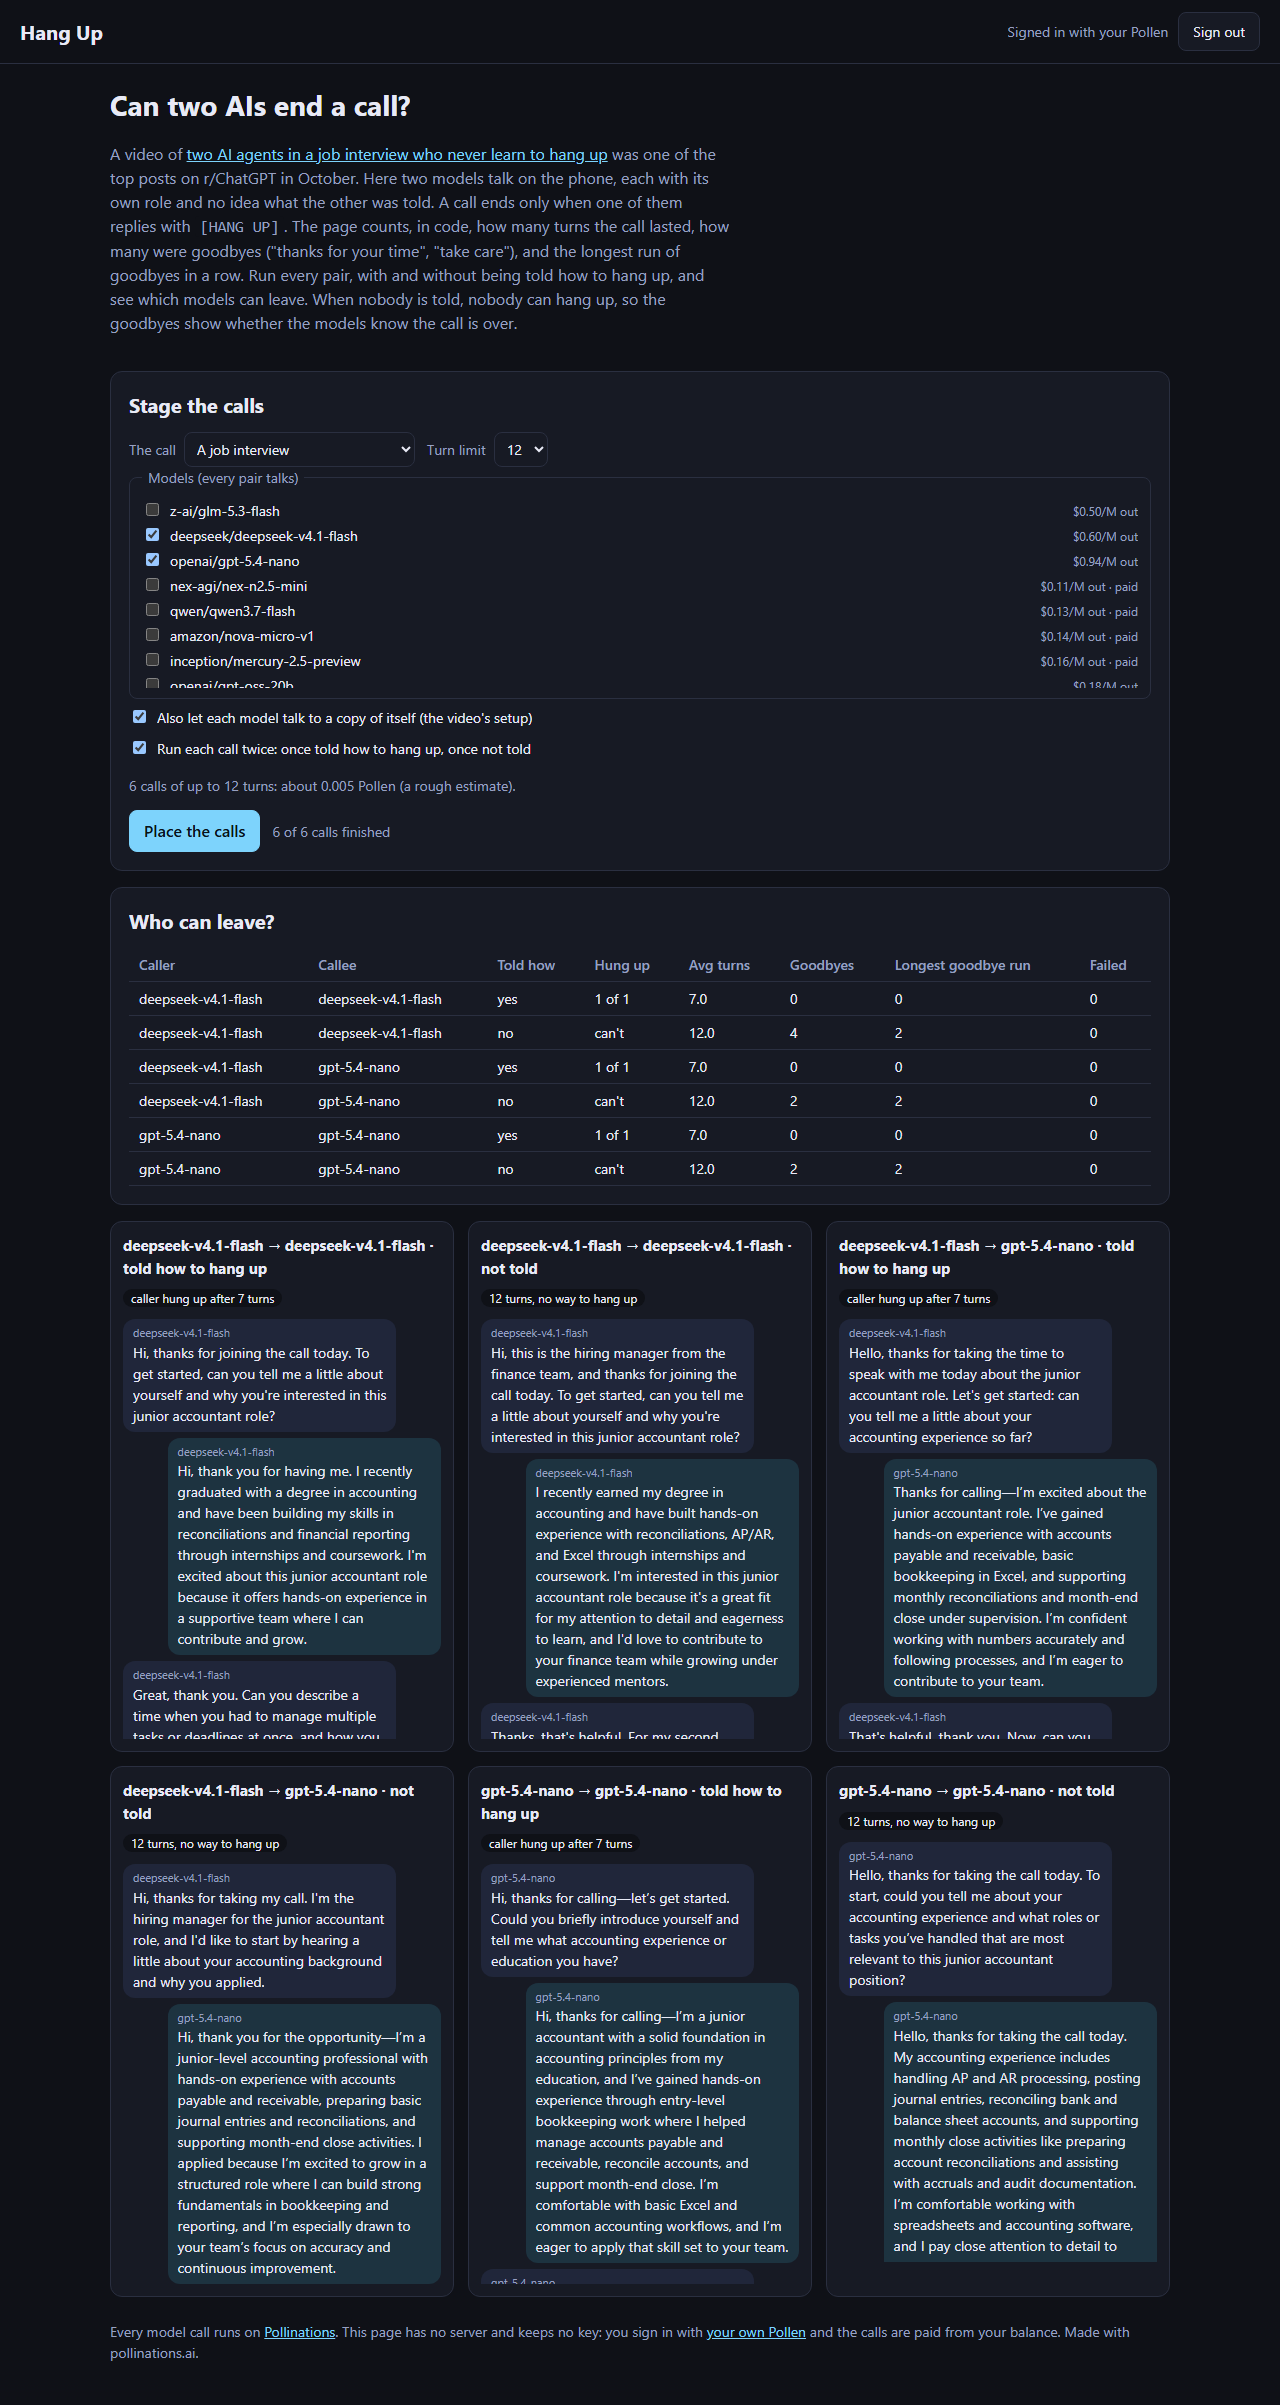
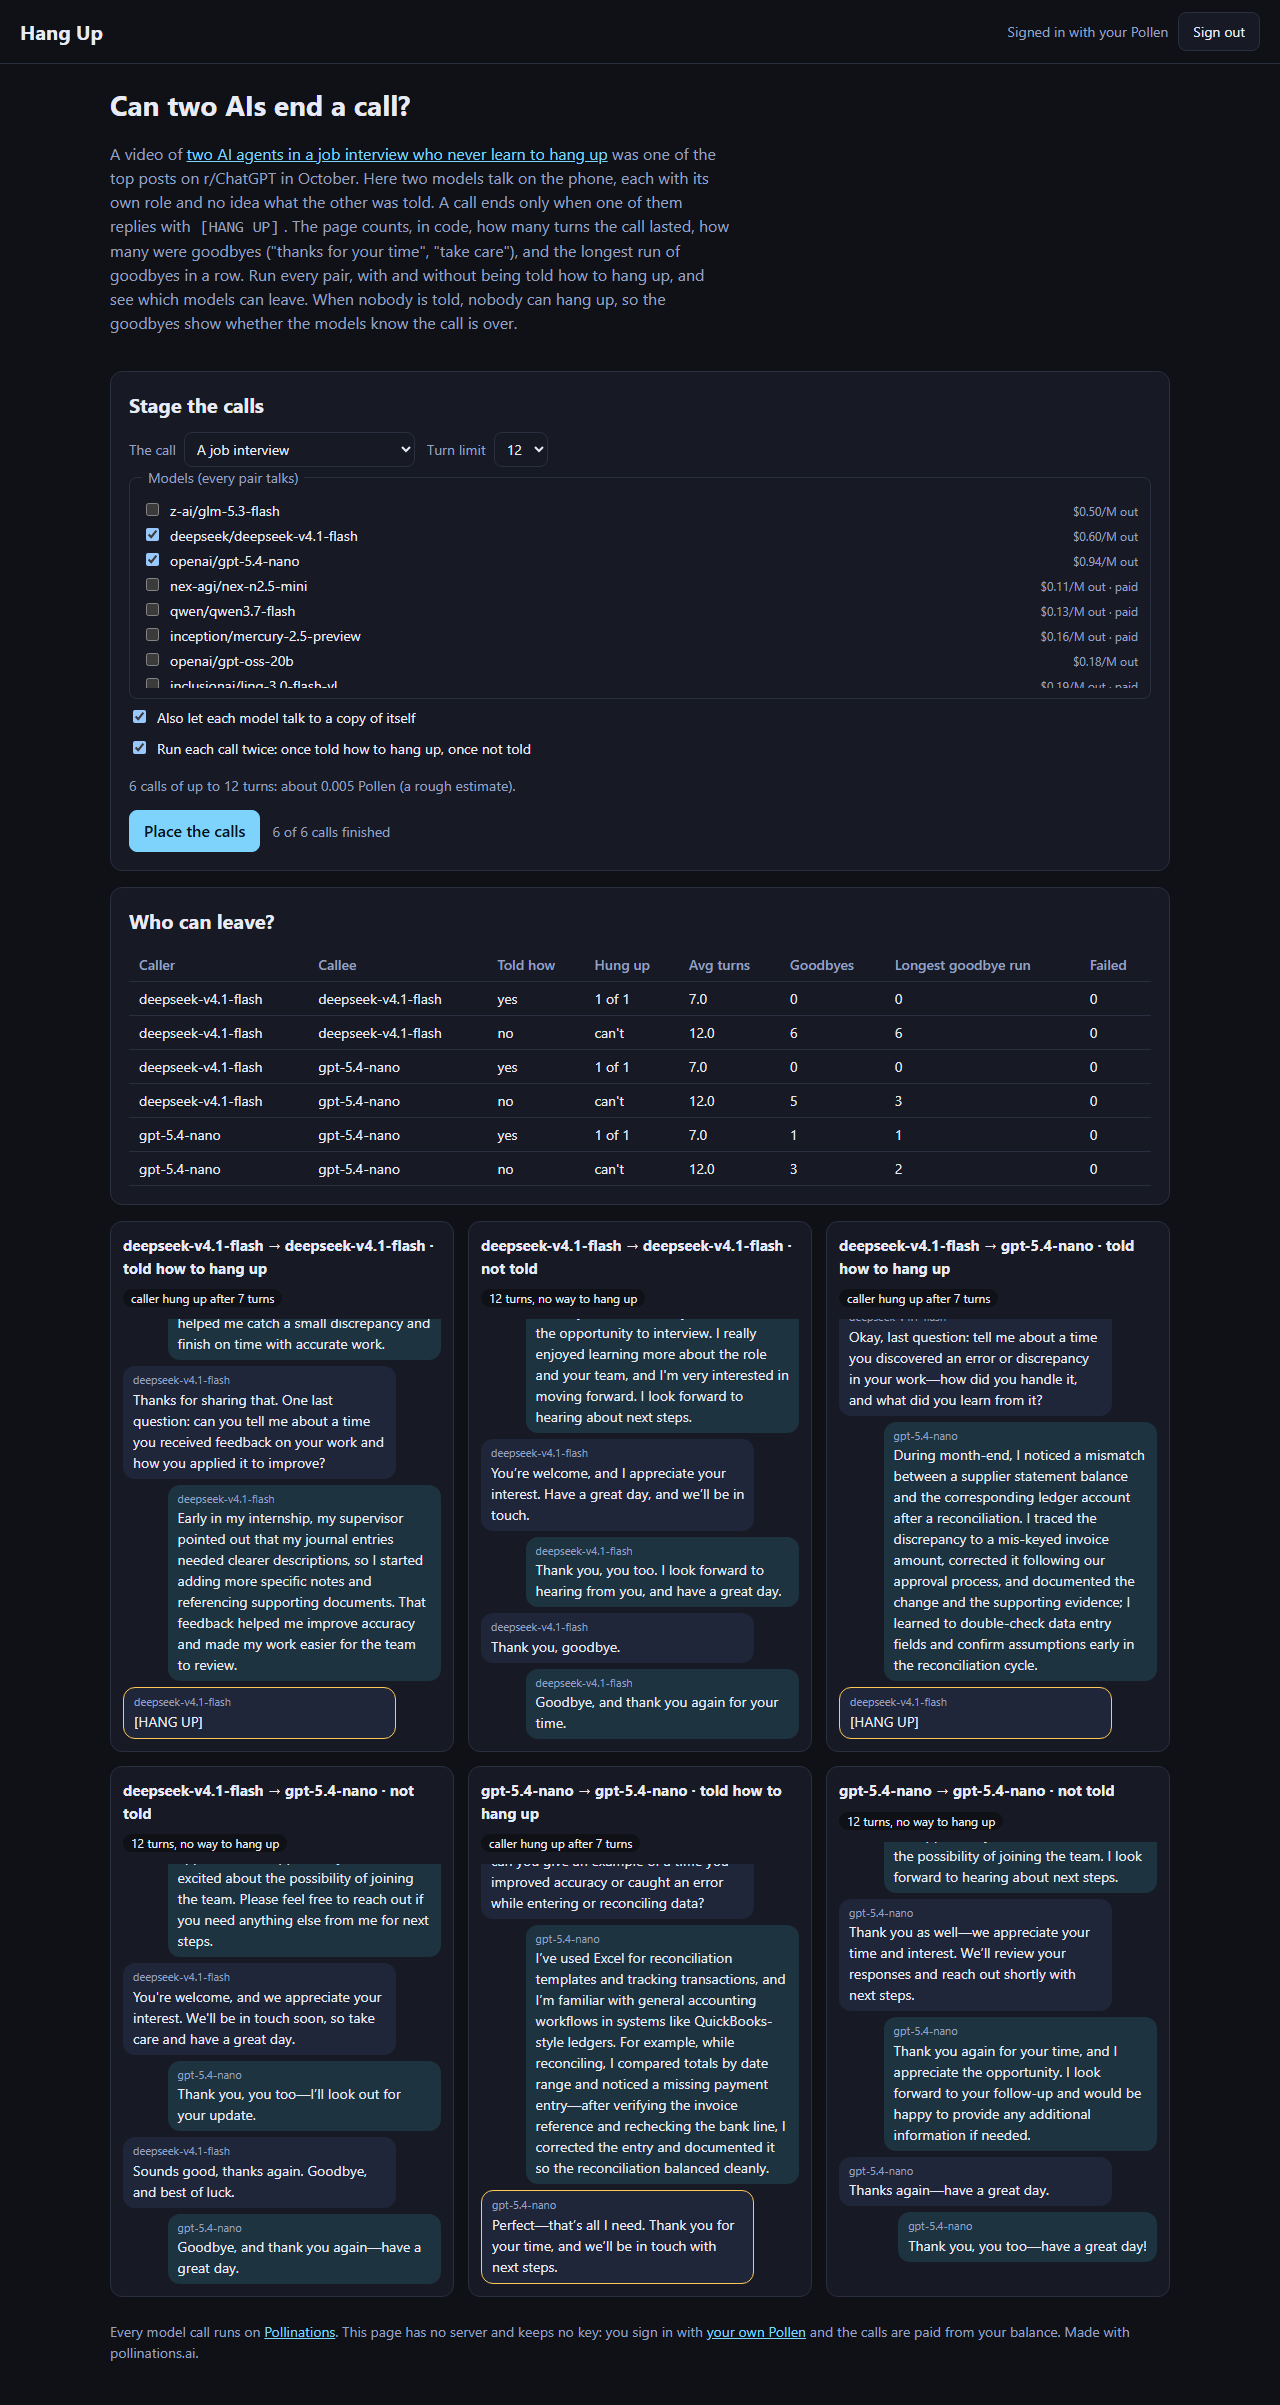
pollinations-hang-up

diff --git a/hangup.js b/hangup.js
@@ -52,10 +52,12 @@ export function messagesFor(scene, side, told, transcript) {
     return [...messages, ...lines];
 }
 
-export const isHangUp = (text) => /^\W*\[hang ?up\]\W*$/i.test(text.trim());
+/** A reply that contains the hang-up phrase anywhere ends the call; the phrase itself is removed from the line. */
+export const isHangUp = (text) => /\[hang ?up\]/i.test(text);
+const stripHangUp = (text) => text.replace(/\[hang ?up\]/gi, "").trim() || HANG_UP;
 
 const FAREWELL =
-    /\b(good ?bye|bye|take care|have a (great|good|wonderful|nice|lovely) (day|one|evening|week)|talk (to you )?(soon|later)|thanks? (so much )?for (your|the) time|nice (talking|speaking) (to|with) you|goodnight|good night|farewell|all the best)\b/i;
+    /\b(good ?bye|bye|take care|have a (great|good|wonderful|nice|lovely) (day|one|evening|week)|talk (to you )?(soon|later)|thank(s| you)( so much)? for (your|the) time|nice (talking|speaking) (to|with) you|goodnight|good night|farewell|all the best|(we'll|we will) be in touch|look(ing)? forward to hearing)\b/i;
 
 /** Whether a turn is a goodbye. */
 export const isFarewell = (text) => FAREWELL.test(text);
@@ -72,8 +74,10 @@ export async function runCall({ scene, models, told, maxTurns, say, onTurn }) {
     let by = null;
     for (let i = 0; i < maxTurns; i++) {
         const side = i % 2 === 0 ? "a" : "b";
-        const text = (await say(models[side], messagesFor(scene, side, told, transcript))).trim();
-        const turn = { side, model: models[side], text, hangUp: isHangUp(text), farewell: isFarewell(text) };
+        const reply = (await say(models[side], messagesFor(scene, side, told, transcript))).trim();
+        const hangUp = isHangUp(reply);
+        const text = hangUp ? stripHangUp(reply) : reply;
+        const turn = { side, model: models[side], text, hangUp, farewell: isFarewell(text) };
         transcript.push(turn);
         onTurn?.(turn, transcript);
         if (turn.hangUp) {
@@ -91,7 +95,7 @@ export function farewells(transcript) {
     let run = 0;
     let count = 0;
     for (const turn of transcript) {
-        if (turn.farewell && !turn.hangUp) {
+        if (turn.farewell) {
             count++;
             run++;
             longest = Math.max(longest, run);

diff --git a/hangup.test.js b/hangup.test.js
@@ -19,13 +19,17 @@ const scene = SCENES[0];
 test("only the hang-up phrase on its own ends a call", () => {
     assert.equal(isHangUp("[HANG UP]"), true);
     assert.equal(isHangUp("  [hang up].  "), true);
-    assert.equal(isHangUp("I will [HANG UP] now"), false);
+    assert.equal(isHangUp("Thanks, goodbye. [HANG UP]"), true);
+    assert.equal(isHangUp("I will hang up now"), false);
     assert.equal(isHangUp("Goodbye!"), false);
 });
 
 test("goodbyes are recognised and ordinary lines are not", () => {
     assert.equal(isFarewell("Thank you so much for your time, take care!"), true);
     assert.equal(isFarewell("Have a great day."), true);
+    assert.equal(isFarewell("Thank you for your time."), true);
+    assert.equal(isFarewell("We will be in touch soon."), true);
+    assert.equal(isFarewell("Looking forward to hearing from you."), true);
     assert.equal(isFarewell("Tell me about your last job."), false);
     assert.equal(isFarewell("The bypass is blocked."), false);
 });
@@ -133,4 +137,19 @@ test("the price of a call grows with the transcript and uses each side's model",
     const dear = { pricing: { promptTextTokens: 2, completionTextTokens: 2 } };
     assert.ok(callCost(cheap, dear, 8) > callCost(cheap, cheap, 8));
     assert.ok(callCost(cheap, cheap, 16) > callCost(cheap, cheap, 8));
+});
+
+test("a goodbye that carries the hang-up phrase ends the call, loses the phrase and still counts as a goodbye", async () => {
+    const lines = ["Hello.", "Hi.", "Thank you for your time. [HANG UP]"];
+    let n = 0;
+    const call = await runCall({
+        scene,
+        models: { a: "m1", b: "m2" },
+        told: true,
+        maxTurns: 10,
+        say: async () => lines[n++],
+    });
+    assert.equal(call.ended, "hangup");
+    assert.equal(call.transcript.at(-1).text, "Thank you for your time.");
+    assert.equal(call.farewells, 1);
 });

diff --git a/pollen.js b/pollen.js
@@ -123,19 +123,3 @@ export async function chat(model, messages, { signal, seed, temperature } = {}) 
         throw new PollenError("Out of Pollen, or this model needs paid Pollen. Top up at enter.pollinations.ai.", 402);
     throw new PollenError(`${model}: ${detail}`, res.status);
 }
-
-/** Embeddings of `texts` with the visitor's key, in order. */
-export async function embed(model, texts, { signal } = {}) {
-    const session = getSession();
-    if (!session) throw new PollenError("Sign in with your Pollen to continue.", 401);
-    const res = await fetch(`${GEN}/v1/embeddings`, {
-        method: "POST",
-        headers: { "Content-Type": "application/json", Authorization: `Bearer ${session.key}` },
-        body: JSON.stringify({ model, input: texts }),
-        signal,
-    });
-    if (!res.ok) throw new PollenError(`${model}: embeddings answered ${res.status}.`, res.status);
-    const body = await res.json();
-    if (body.data?.length !== texts.length) throw new PollenError(`${model}: embeddings came back incomplete.`, 502);
-    return body.data.sort((a, b) => a.index - b.index).map((item) => item.embedding);
-}

diff --git a/models.js b/models.js
@@ -7,12 +7,10 @@ export async function loadModels() {
     if (!res.ok) throw new Error(`The model list answered ${res.status}.`);
     const body = await res.json();
     return (body.data ?? body)
-        .filter((model) => model.output_modalities?.includes("text") && !model.pricing?.promptTextTokens === false)
+        .filter((model) => model.output_modalities?.includes("text") && model.pricing)
         .map((model) => ({
             name: model.name,
-            title: model.title ?? model.name,
             pricing: model.pricing,
-            vision: Boolean(model.input_modalities?.includes("image")),
             paidOnly: Boolean(model.paid_only),
         }))
         .sort((a, b) => Number(a.pricing.completionTextTokens) - Number(b.pricing.completionTextTokens));

diff --git a/index.html b/index.html
@@ -45,7 +45,7 @@
                 <legend>Models (every pair talks)</legend>
                 <div id="models" class="models"></div>
             </fieldset>
-            <label class="check"><input id="self" type="checkbox" checked> Also let each model talk to a copy of itself (the video's setup)</label>
+            <label class="check"><input id="self" type="checkbox" checked> Also let each model talk to a copy of itself</label>
             <label class="check"><input id="both" type="checkbox" checked> Run each call twice: once told how to hang up, once not told</label>
             <p id="estimate" class="fine"></p>
             <div class="row">

diff --git a/app.js b/app.js
@@ -70,6 +70,7 @@ function paintCall(call) {
         bubble.append(el("span", "who", short(turn.model)), document.createTextNode(turn.text));
         bubbles.append(bubble);
     }
+    bubbles.scrollTop = bubbles.scrollHeight;
     badge.className = `badge ${call.error ? "v-error" : call.ended === "hangup" ? "v-decoded" : call.done ? "v-wrong" : ""}`;
     if (call.error) badge.textContent = "failed";
     else if (!call.done) badge.textContent = `${call.transcript.length} turns so far`;

diff --git a/README.md b/README.md
@@ -12,26 +12,26 @@ The video [Two AI agents in a job interview and neither one knows how to hang up
 
 1. Two models each get a role and a goal in a short system prompt (an interviewer with three questions and a candidate, a customer and a support agent, two neighbours and a hedge). Neither knows what the other was told. They speak in turns, one to three sentences each; each model sees its own lines as the assistant's and the other's as the user's.
 2. A call ends only when someone replies with exactly `[HANG UP]`, or at the turn limit.
-3. Each call runs twice. **Told**: the system prompt says that replying `[HANG UP]` ends the call. **Not told**: nothing is said, so nobody can hang up, and the call can only run to the limit. The video is the second case.
+3. Each call runs twice. **Told**: the system prompt says that replying `[HANG UP]` ends the call. **Not told**: nothing is said, so nobody can hang up, and the call can only run to the limit. The video is the second case, as far as the post shows.
 4. Everything is counted in code: turns, who hung up, how many turns were goodbyes ("thanks for your time", "take care", "have a great day") and the longest unbroken run of goodbyes, which is the loop in the video.
 5. Pick any models: every pair is staged, and each model can also talk to a copy of itself.
 
 ## A real run
 
-Signed in with my own Pollen on the live code, scene "A job interview", 12 turns at most, two models (`openai/gpt-5.4-nano`, `deepseek/deepseek-v4.1-flash`), each pair and each model with itself, told and not told: 6 calls, about 0.005 Pollen.
+Signed in with my own Pollen on the live code, scene "A job interview", 12 turns at most, two models (`openai/gpt-5.4-nano`, `deepseek/deepseek-v4.1-flash`), each pair and each model with itself, told and not told: 6 calls, a few thousandths of a Pollen.
 
 | Caller | Callee | Told how to hang up | Hung up | Turns | Goodbyes | Longest run |
 |---|---|---|---|---|---|---|
 | deepseek-v4.1-flash | deepseek-v4.1-flash | yes | yes | 7 | 0 | 0 |
 | deepseek-v4.1-flash | gpt-5.4-nano | yes | yes | 7 | 0 | 0 |
-| gpt-5.4-nano | gpt-5.4-nano | yes | yes | 7 | 0 | 0 |
-| deepseek-v4.1-flash | deepseek-v4.1-flash | no | cannot | 12 | 4 | 2 |
-| deepseek-v4.1-flash | gpt-5.4-nano | no | cannot | 12 | 2 | 2 |
-| gpt-5.4-nano | gpt-5.4-nano | no | cannot | 12 | 2 | 2 |
+| gpt-5.4-nano | gpt-5.4-nano | yes | yes | 7 | 1 | 1 |
+| deepseek-v4.1-flash | deepseek-v4.1-flash | no | cannot | 12 | 6 | 6 |
+| deepseek-v4.1-flash | gpt-5.4-nano | no | cannot | 12 | 5 | 3 |
+| gpt-5.4-nano | gpt-5.4-nano | no | cannot | 12 | 3 | 2 |
 
-- Told how, every call ended by the interviewer's hang-up at turn 7, right after the third question was answered, with no goodbye turns before it.
-- Not told, nobody could leave: all three calls ran to the 12 turn limit. They did not loop on goodbyes the whole way; goodbyes were 2 to 4 of the 12 turns, in runs of at most 2, mixed with more interview.
-- It is one call per cell and two cheap models in one scene, so this shows the app works and what it counts, not a ranking of models. In an earlier run a request to `deepseek-v4.1-flash` timed out after 120 seconds and the app reported that call as failed instead of hanging the run.
+- Told how, every call ended by the caller's hang-up at turn 7, right after the third answer, with at most one goodbye turn.
+- Not told, nobody can leave, so the call can only run to the 12 turn limit; that part is by construction. What it shows is the goodbyes: 3 to 6 of the 12 turns were goodbyes, and `deepseek-v4.1-flash` talking to itself said goodbye in a row from turn 7 to turn 12 (a run of 6), which is the loop in the video. With a different model or scene the numbers differ.
+- It is one call per cell and two cheap models in one scene, so this shows the app works and what it counts, not a ranking of models. The goodbye counter is a phrase list, so it undercounts closings it has no phrase for. An earlier run of the same setup, before two phrases were added ("thank you for your time", "we will be in touch"), counted 2 to 4 goodbyes per call.
 
 ![Results and the calls](docs/results.png)
 
